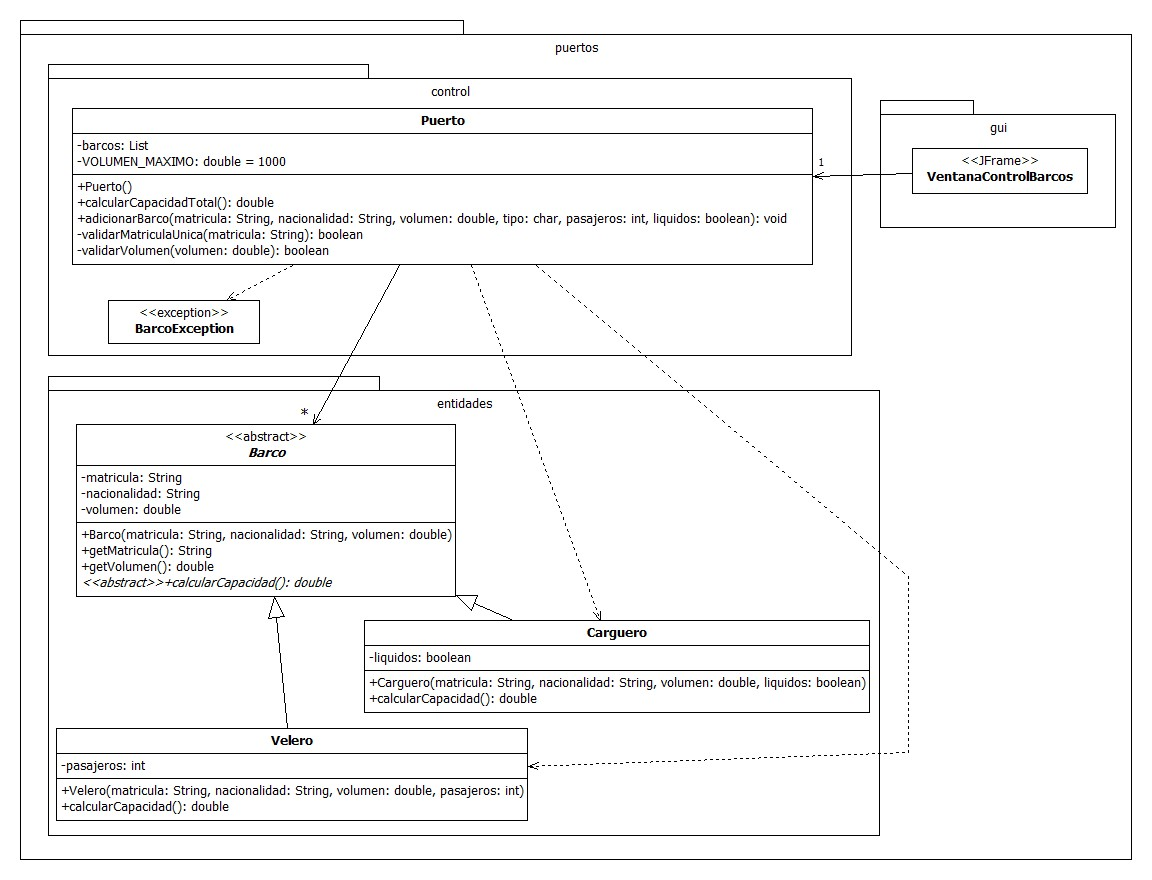
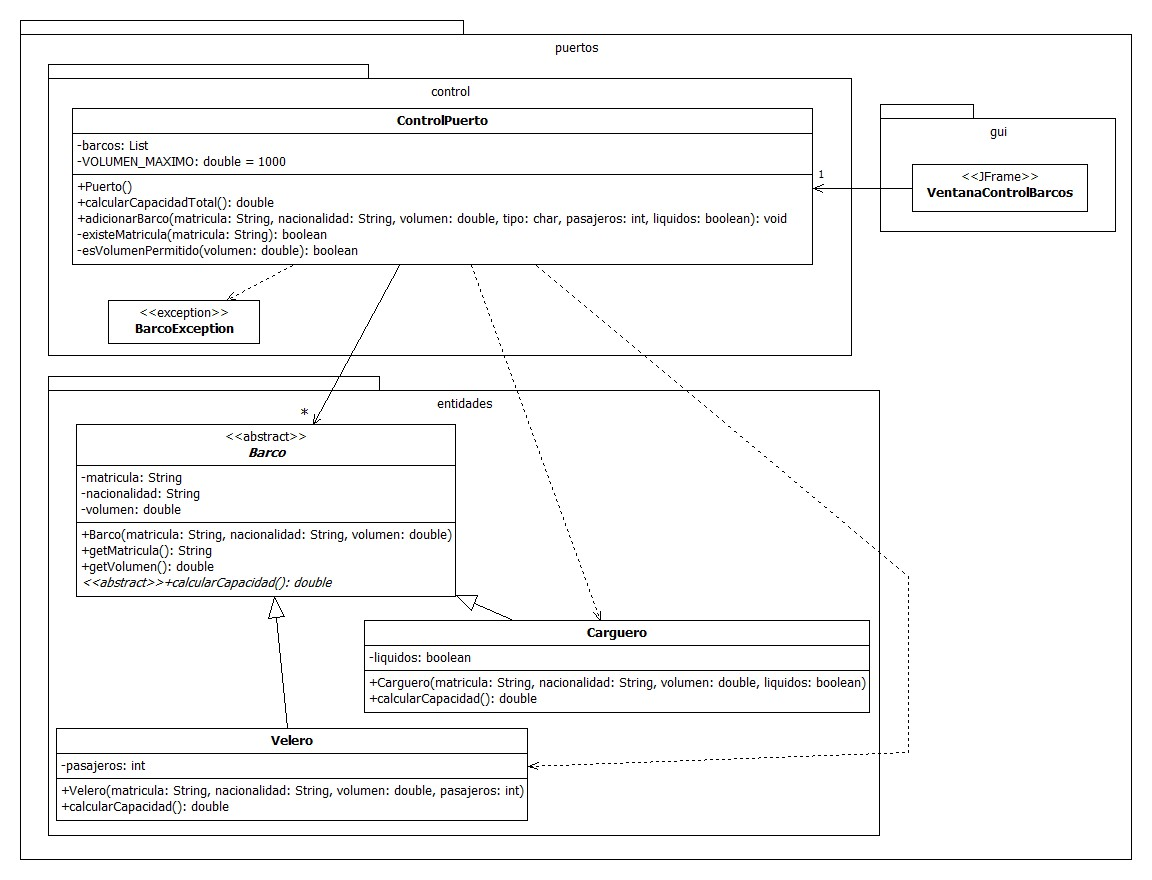
Ajustar nombre de clase de control y métodos

Changed region(s): [[0.0625, 0.2455, 0.3125, 0.3068], [0.7812, 0.1227, 0.9375, 0.2455], [0.3438, 0.1227, 0.4375, 0.1534]]

diff --git a/src/puertos/control/ControlPuerto.java b/src/puertos/control/ControlPuerto.java
@@ -12,12 +12,12 @@ import puertos.entidades.Velero;
  * y tiene la principales funciones del programa (es el control).
  * @version 3.5
  */
-public class Puerto {
+public class ControlPuerto {
 
 	private List<Barco> barcos;
 	private final double VOLUMEN_MAXIMO = 1000;
 	
-	public Puerto() {
+	public ControlPuerto() {
 		barcos = new ArrayList<>();
 	}
 	
@@ -45,12 +45,14 @@ public class Puerto {
 	public void adicionarBarco(String matricula, String nacionalidad, double volumen, 
 			char tipo, int pasajeros, boolean liquidos) throws BarcoException {
 
-		if (!validarMatriculaUnica(matricula)) {
-			throw new BarcoException("No se puede guardar: Ya existe un barco registrado con esa matrícula");
+		if (!existeMatricula(matricula)) {
+			throw new BarcoException("No se puede guardar: "
+					+ "Ya existe un barco registrado con esa matrícula");
 		}
 		
-		if (!validarVolumenBarco(volumen)) {
-			throw new BarcoException("Volumen incorrecto: debe estar entre cero y mil [0 - 1000]");
+		if (!esVolumenPermitido(volumen)) {
+			throw new BarcoException("Volumen incorrecto: "
+					+ "debe estar entre 0 y "+ VOLUMEN_MAXIMO);
 		}
 		
 
@@ -71,7 +73,7 @@ public class Puerto {
 	 * Valida que la matrícula no esté previamente registrada en la lista de barcos
 	 * @return true si la matrícula es única, o false si ya existe un barco con esa matrícula
 	 */
-	private boolean validarMatriculaUnica(String matricula) {
+	private boolean existeMatricula(String matricula) {
 		for (Barco barco : barcos) {
 			if (barco.getMatricula().equals(matricula)) {
 				return false;
@@ -85,7 +87,7 @@ public class Puerto {
 	 * @param volumen el volumen que se desea evaluar
 	 * @return	si el volumen es aceptado o no
 	 */
-	private boolean validarVolumenBarco(double volumen) {
+	private boolean esVolumenPermitido(double volumen) {
 		if (volumen < 0 || volumen > VOLUMEN_MAXIMO) {
 			return false;
 		}

diff --git a/src/puertos/gui/VentanaControlBarcos.java b/src/puertos/gui/VentanaControlBarcos.java
@@ -6,7 +6,7 @@ import javax.swing.JPanel;
 import javax.swing.border.EmptyBorder;
 
 import puertos.control.BarcoException;
-import puertos.control.Puerto;
+import puertos.control.ControlPuerto;
 
 import javax.swing.JLabel;
 import javax.swing.JOptionPane;
@@ -32,7 +32,7 @@ import javax.swing.ButtonModel;
  */
 public class VentanaControlBarcos extends JFrame {
 	
-	private Puerto puerto;
+	private ControlPuerto puerto;
 
 	private JPanel contentPane;
 	private JTextField campoNacionalidad;
@@ -64,7 +64,7 @@ public class VentanaControlBarcos extends JFrame {
 	 */
 	public VentanaControlBarcos() {
 		
-		puerto = new Puerto();
+		puerto = new ControlPuerto();
 		
 		setTitle("Control Barcos");
 		setDefaultCloseOperation(WindowConstants.EXIT_ON_CLOSE);
@@ -282,7 +282,8 @@ public class VentanaControlBarcos extends JFrame {
 		boolean liquidos = checkLiquidos.isSelected();
 		
 		if (!validarCampoObligatorio(nacionalidad)) {
-			JOptionPane.showMessageDialog(this,"Se debe ingresar algún dato en nacionalidad", 
+			JOptionPane.showMessageDialog(this,
+					"Se debe ingresar algún dato en nacionalidad", 
 					"Error",JOptionPane.WARNING_MESSAGE);
 		}
 		
